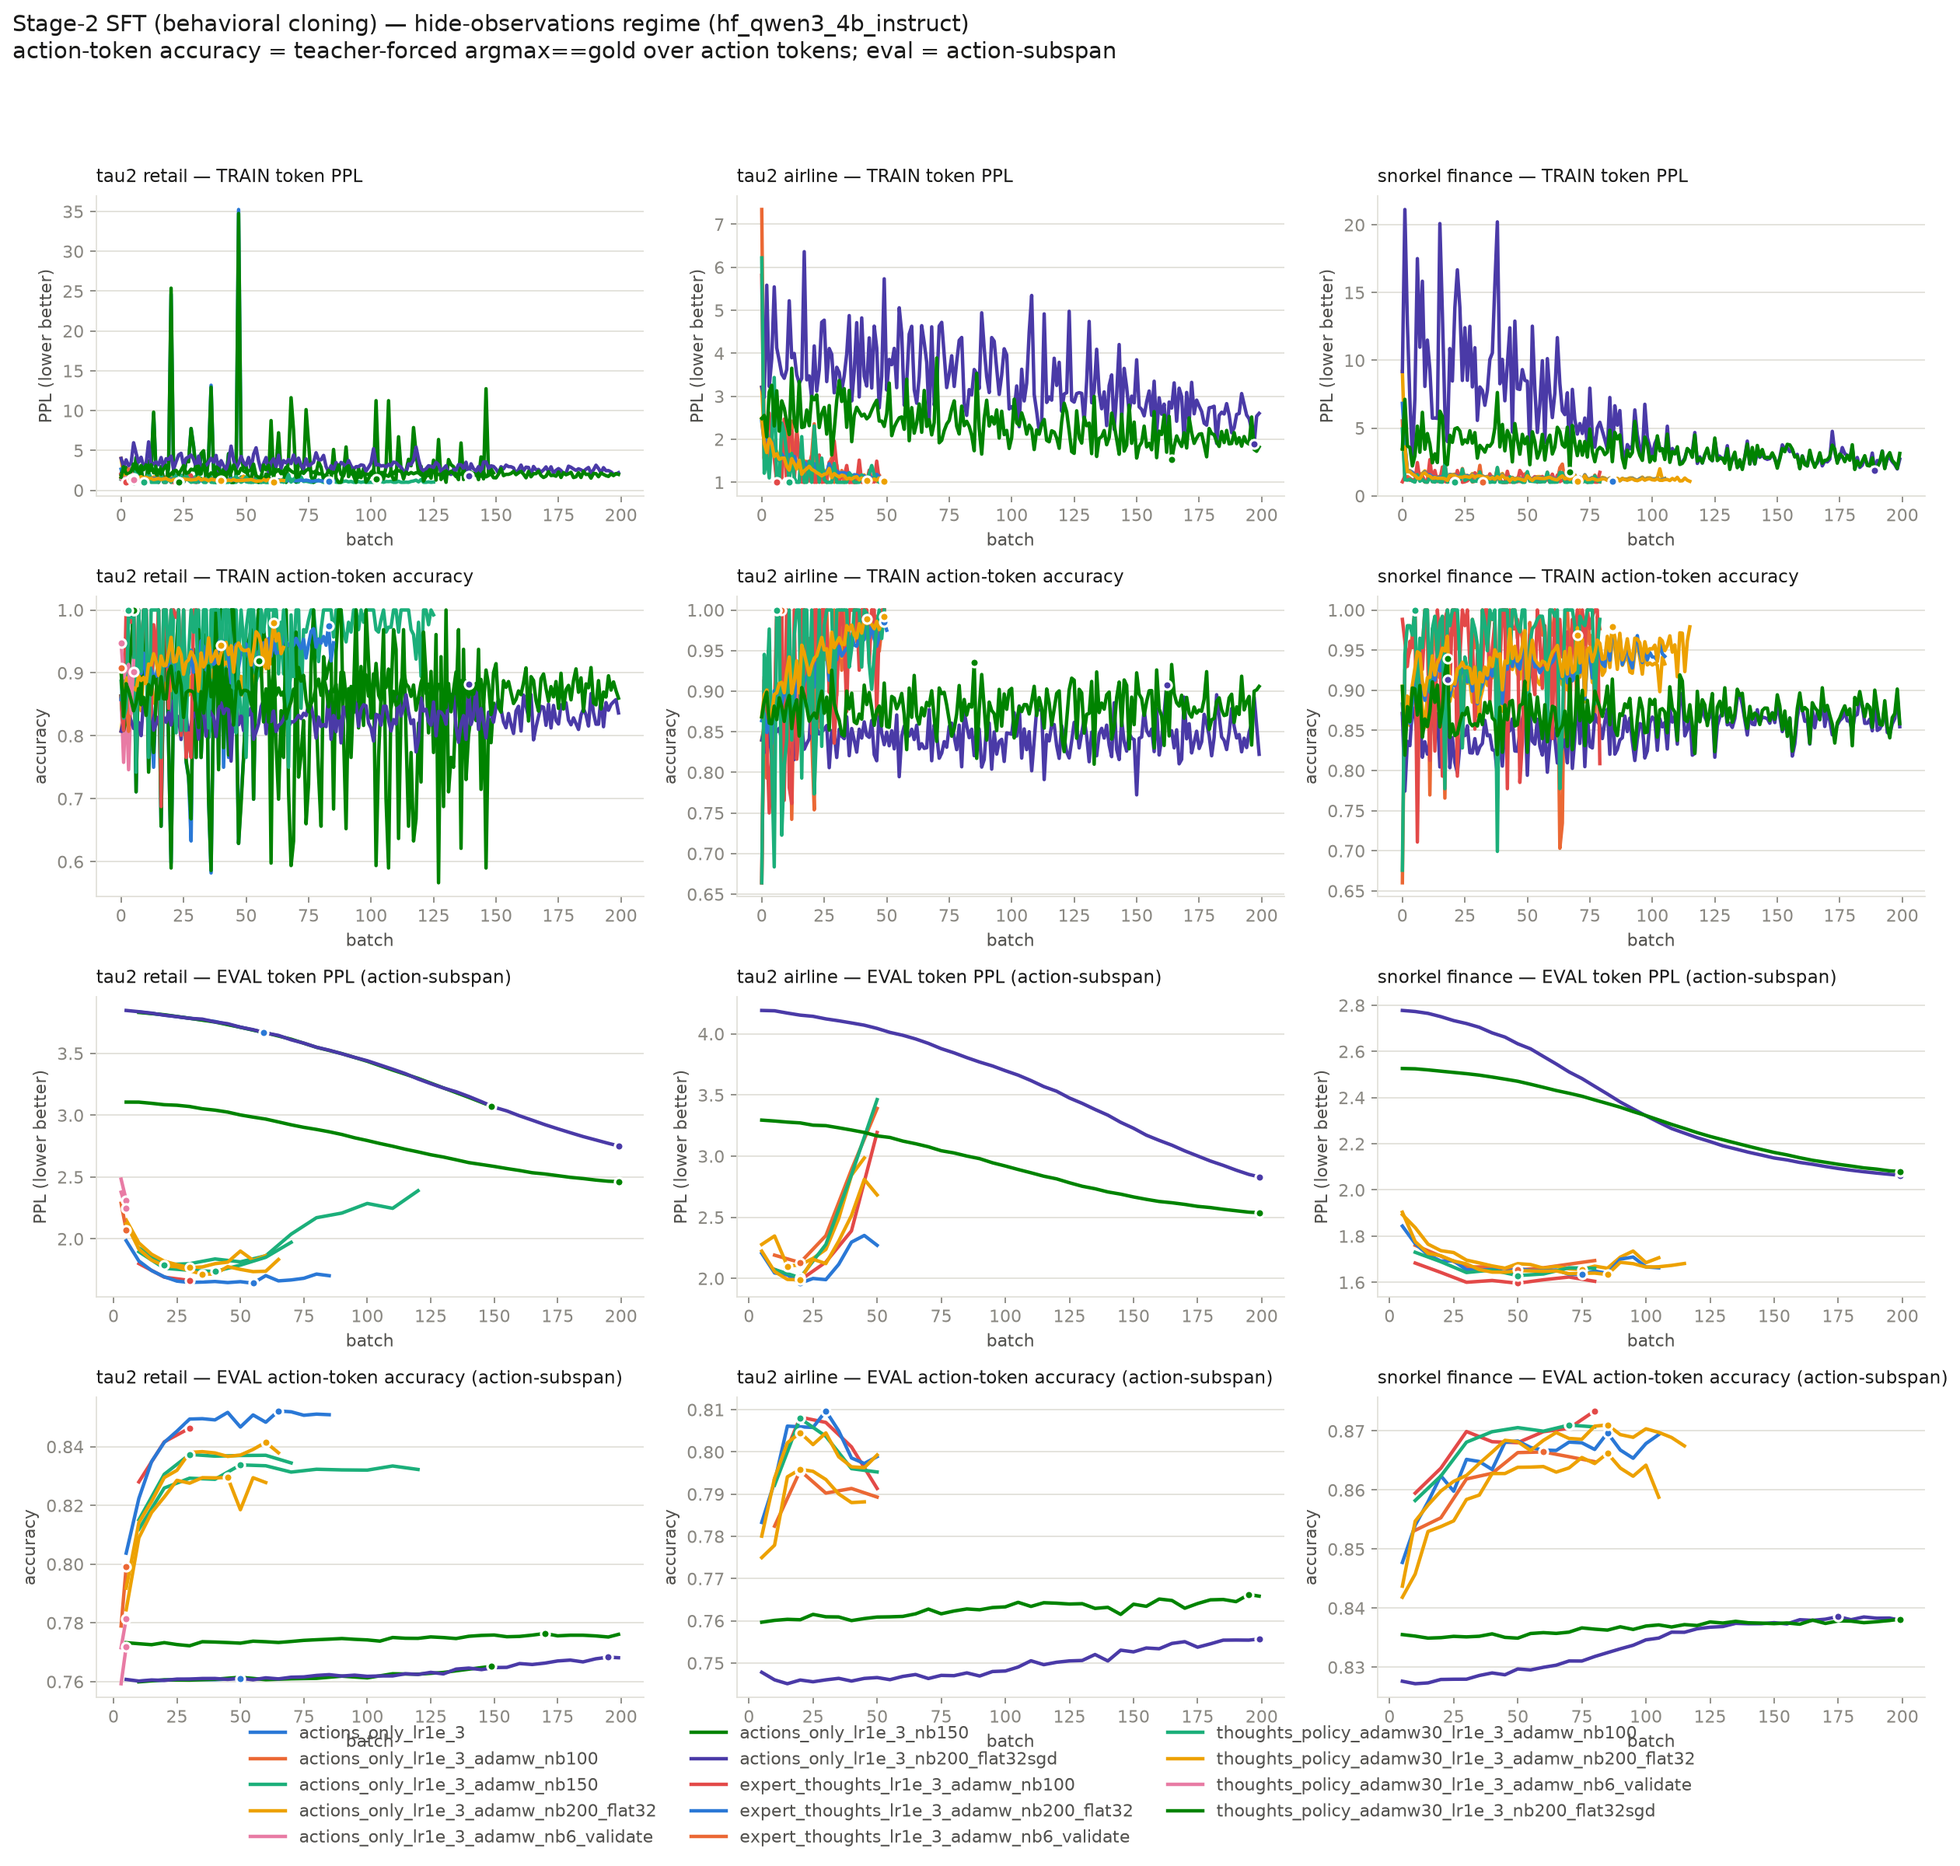
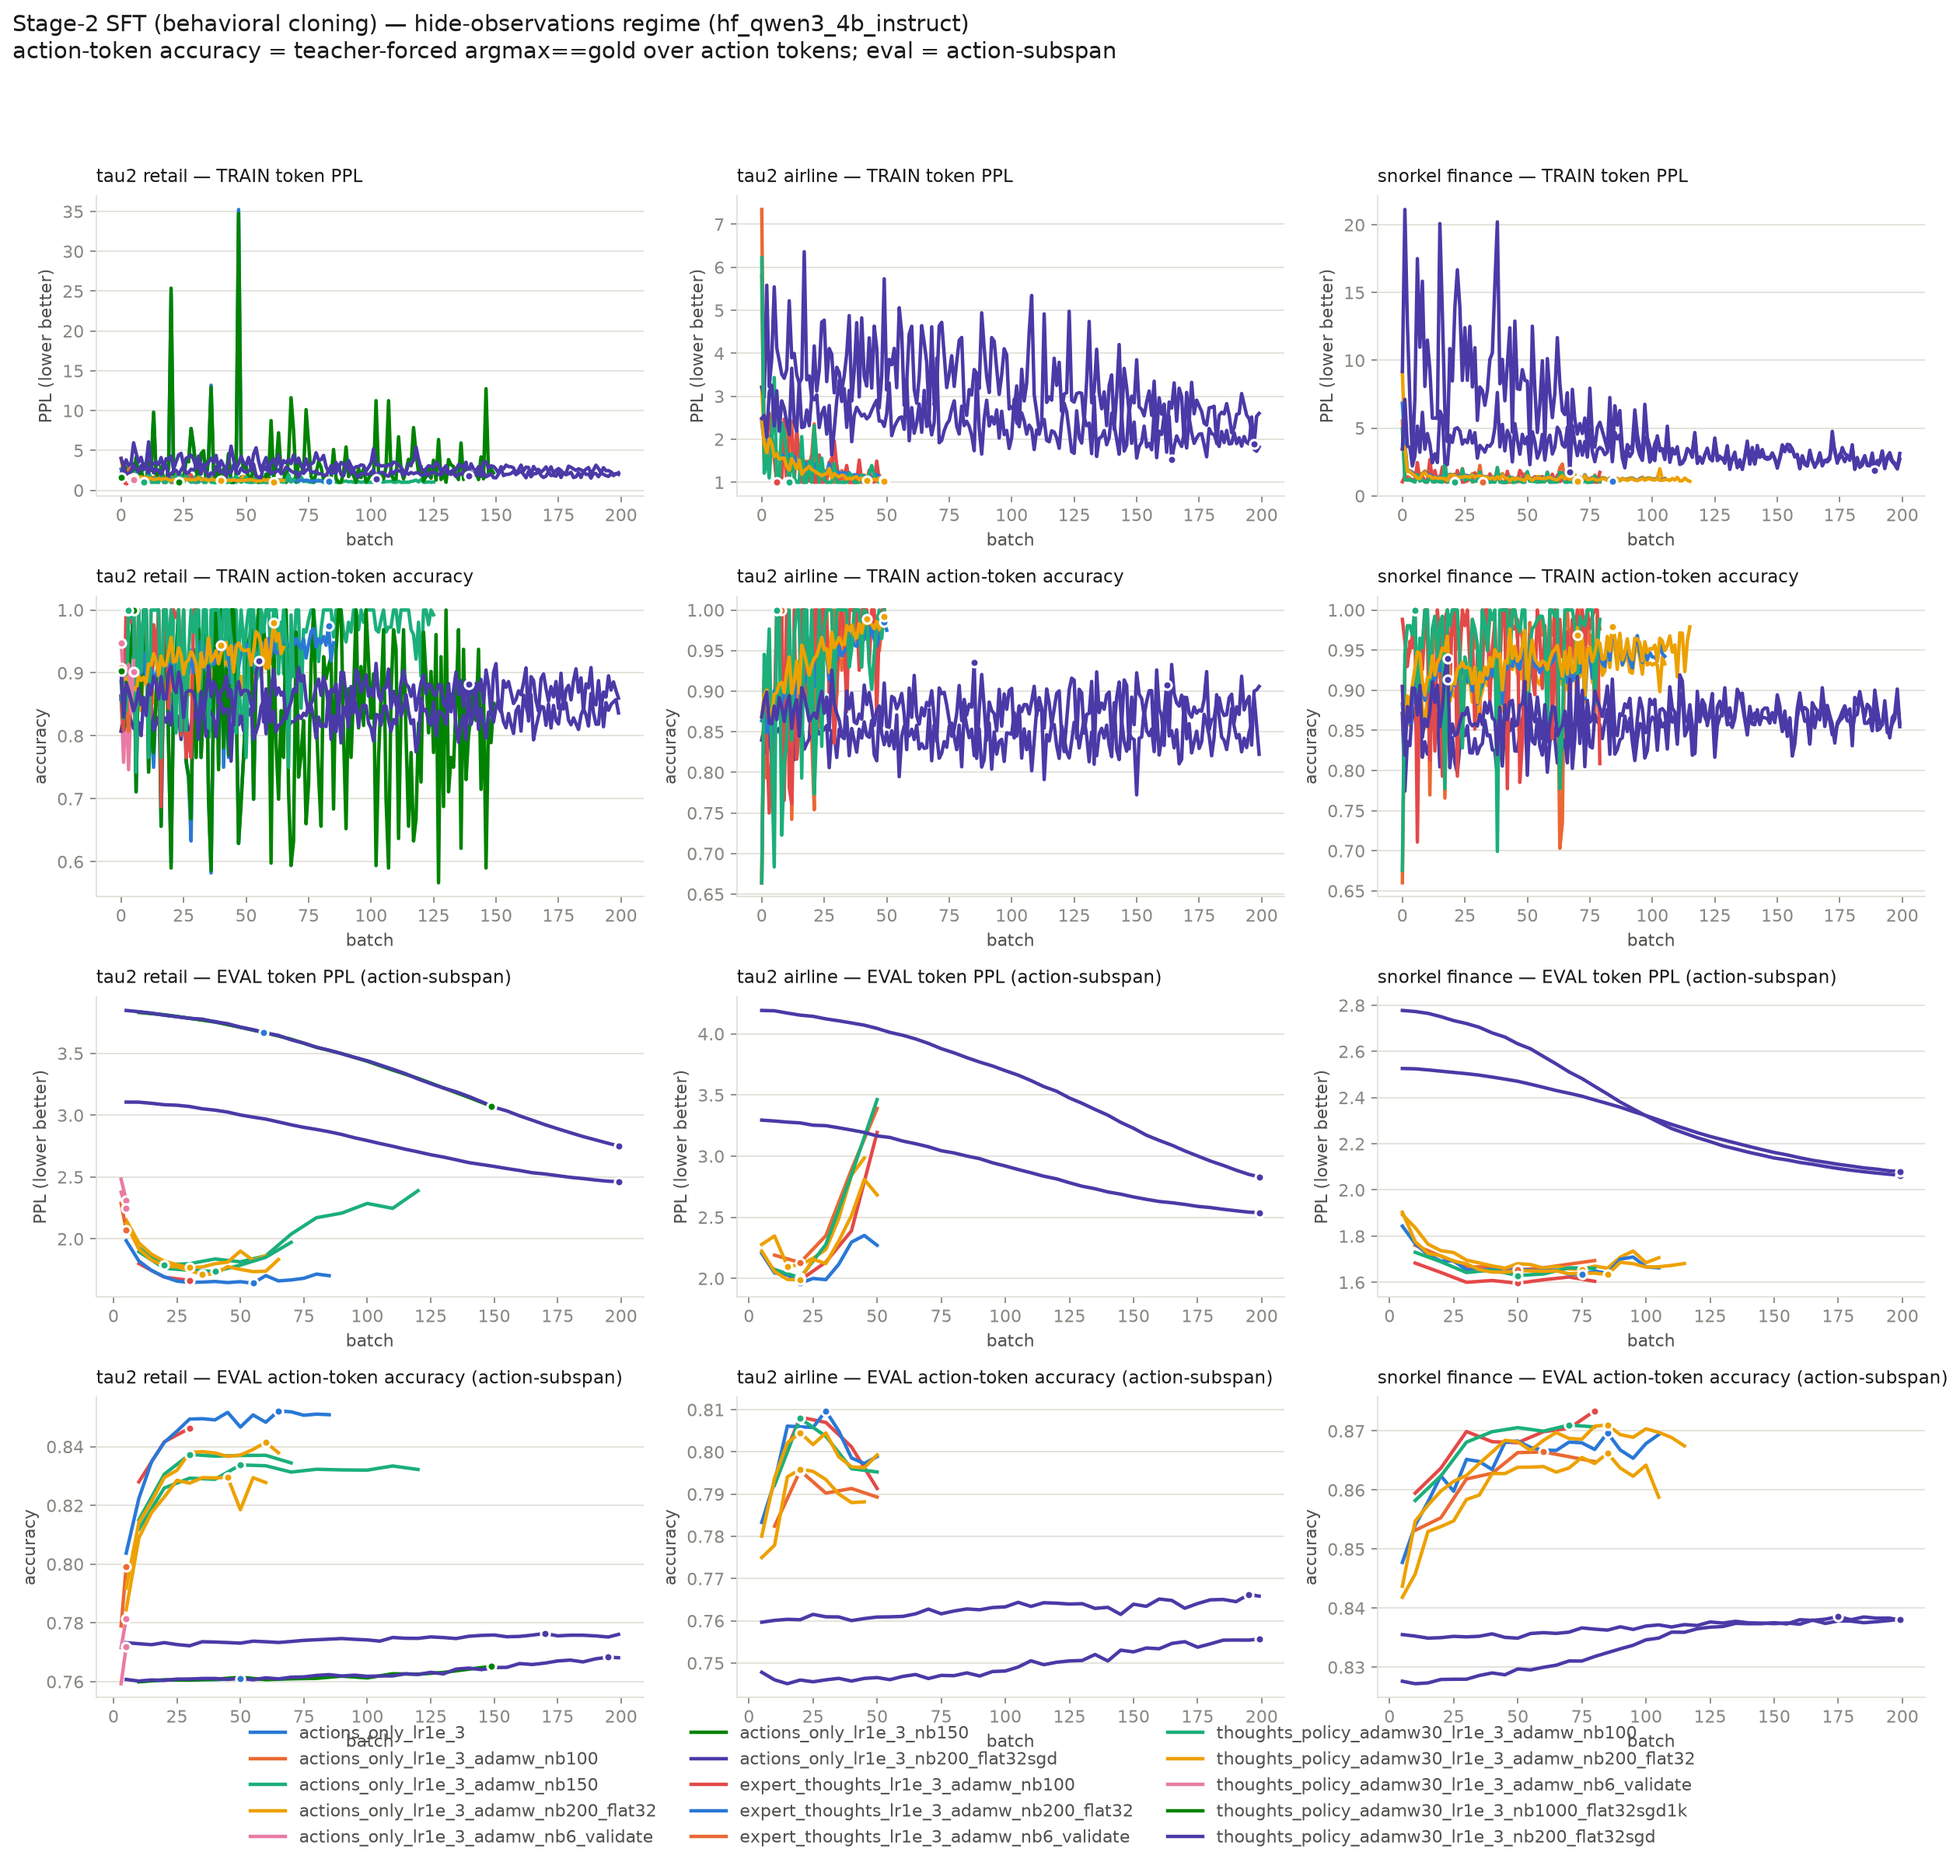
auto: SFT LR sweep results snapshot

diff --git a/notes/cc-13.0-multidomain-sgd.md b/notes/cc-13.0-multidomain-sgd.md
@@ -158,9 +158,71 @@ optimizer, LR and tasks; only the Stage-1 corpus differs.
 (spb32 x nb200), so the difference is data diversity / epochs, not optimisation budget.
 A significant result would justify a matched-size follow-up, not an immediate conclusion.
 
-## Results
+## Results — COMPLETE (2026-09-03 00:55)
 
-*(appended as runs complete)*
+### Stage-2 training, SGD 1e-3 (best eval action-PPL; all cap-limited at b199, none plateaued)
+
+| domain | `actions_only` | `thoughts_policy` | thoughts help? |
+|---|---|---|---|
+| retail | 2.7517 | **2.4625** | yes (-0.29) |
+| airline | 2.8307 | **2.5375** | yes (-0.29) |
+| finance | **2.0637** | 2.0800 | tied |
+| insurance | **2.8049** | 2.9952 | no (+0.19) |
+
+Scored spans verified byte-identical across arms within each domain (retail 13,459 action
+tokens, airline 6,393, finance 34,497, insurance 35,663), so the arms are directly
+comparable. The thought arm spends 24-30% of its gradient on thought tokens the metric
+never scores, and still wins on both tau2 domains.
+
+### Rollouts — the central result
+
+`step_0020` vs `step_best`, same arm, same corpus, only the snapshot differs:
+
+| domain | arm | `step_0020` | `step_best` | delta | Fisher p |
+|---|---|---|---|---|---|
+| retail | `thoughts_policy` | 31.0% (13/42) | 23.8% (10/42) | -7.1 | 0.625 |
+| retail | `actions_only` | 21.4% (9/42) | 19.0% (8/42) | -2.4 | 1.000 |
+| airline | `thoughts_policy` | 61.1% (11/18) | 44.4% (8/18) | -16.7 | 0.505 |
+| airline | `actions_only` | 55.6% (10/18) | 61.1% (11/18) | **+5.6** | 1.000 |
+| **insurance** | `thoughts_policy` | 52.5% (21/40) | **15.0%** (6/40) | **-37.5** | **0.00076** |
+| **insurance** | `actions_only` | 50.0% (20/40) | **10.0%** (4/40) | **-40.0** | **0.00017** |
+| finance | `thoughts_policy` | 0.0% (0/10) | 0.0% (0/10) | 0.0 | 1.000 |
+| finance | `actions_only` | 10.0% (1/10) | 0.0% (0/10) | -10.0 | 1.000 |
+
+**POOLED (retail + airline + insurance, both arms): 42.0% (84/200) -> 23.5% (47/200),
+Fisher p = 1.17e-04.**
+
+7 of 8 arm-domain pairs decline. The single exception is airline `actions_only` at +5.6,
+which is a **one-task** difference (10 vs 11 of 18) — within noise for that n.
+
+### What this establishes
+
+1. **Continuing Stage-2 SFT past a very early point destroys agentic capability while the
+   SFT objective keeps improving.** This is now significant at the pooled level and, on
+   insurance alone, at p<0.001 with n=40 per cell. Retail and airline pointed the same way
+   but individually could not clear noise; insurance settles it.
+2. **It is not about thoughts.** `actions_only` collapses on insurance just as hard as
+   `thoughts_policy` (50.0->10.0 vs 52.5->15.0). Whatever is being destroyed is destroyed
+   by fitting the action distribution, not by the thought corpus.
+3. **`step_best` (PPL-optimal) is the wrong checkpoint**, confirmed across domains. Any
+   selection criterion based on the SFT objective picks the worse policy.
+4. Combined with cc-12.0's retail curve (completion peaks at PPL 3.08, monotone decline to
+   0% at PPL 1.72) and the SGD-3e-3-vs-AdamW comparison, the variable is **fit depth**, not
+   the optimizer.
+
+### Caveats
+
+- **Finance is uninformative** (floor effect, see challenge #6) — excluded from the pooled
+  test. 9 of 10 finance fair-set rollouts ever run scored 0/10; the `hard` set is 0/29 for
+  every arm in both generations.
+- **No base reference for insurance yet**, so 52.5% is not interpretable in absolute terms
+  (retail base 14.3%, airline base 55.6%; insurance has none — the gym was only unblocked
+  today). `scripts/run_insurance_base_rollout.sh` is queued. The *within-insurance*
+  comparisons above do not depend on it.
+- Airline n=18 gives CIs of roughly +/-20 points; it can detect collapse, not 5-point moves.
+- Insurance's thought corpus has 14 mismatches and its thought arm has worse action-PPL
+  than `actions_only`, so it is the least clean domain — but the effect appears in *both*
+  its arms, which is what makes the fit-depth reading robust rather than corpus-specific.
 
 ## Challenges and resolutions
 

diff --git a/notes/cc-3.0-retail_sft_results.md b/notes/cc-3.0-retail_sft_results.md
@@ -45,6 +45,7 @@ for wordiness rather than for mispredicting the action, which inverts the rankin
 | thoughts_policy_adamw30_lr1e_3_adamw_nb100 | hide | 1.7358 | 0.8368 | 40 | 1.9884 | 0.7917 | 20 | 0.3668 |
 | thoughts_policy_adamw30_lr1e_3_adamw_nb200_flat32 | hide | 1.7150 | 0.8383 | 35 | — | — | — | 0.2997 |
 | thoughts_policy_adamw30_lr1e_3_adamw_nb6_validate | hide | 2.2449 | 0.7814 | 5 | — | — | — | 0.6407 |
+| thoughts_policy_adamw30_lr1e_3_nb1000_flat32sgd1k | hide | — | — | — | — | — | — | 1.1297 |
 | thoughts_policy_adamw30_lr1e_3_nb200_flat32sgd | hide | 2.4625 | 0.7761 | 199 | — | — | — | 0.8002 |
 | thoughts_policy_adamw30_lr1e_4_adamw_nb200_flat32 | hide | 1.7313 | 0.8393 | 140 | — | — | — | 0.2530 |
 | thoughts_policy_adamw30_lr3e_3_nb200_flat32sgd | hide | 2.2822 | 0.7809 | 199 | — | — | — | 0.6983 |
@@ -96,6 +97,7 @@ that saved step:
 | thoughts_policy_adamw30_lr1e_3_adamw_nb100 | hide | 1.7621 | 0.8306 |
 | thoughts_policy_adamw30_lr1e_3_adamw_nb200_flat32 | hide | — | — |
 | thoughts_policy_adamw30_lr1e_3_adamw_nb6_validate | hide | — | — |
+| thoughts_policy_adamw30_lr1e_3_nb1000_flat32sgd1k | hide | — | — |
 | thoughts_policy_adamw30_lr1e_3_nb200_flat32sgd | hide | — | — |
 | thoughts_policy_adamw30_lr1e_4_adamw_nb200_flat32 | hide | — | — |
 | thoughts_policy_adamw30_lr3e_3_nb200_flat32sgd | hide | — | — |

diff --git a/notes/cc-5.0-sft-lr-investigation.md b/notes/cc-5.0-sft-lr-investigation.md
@@ -376,6 +376,7 @@ retail/expert_thoughts_lr1e_3_adamw_nb6_validate     hide    5     2.2879 ->   2
 retail/thoughts_policy_adamw30_lr1e_3_adamw_nb100    hide   70     1.8959 ->   1.9718  -4.00%  0.8345        1.3828  <running>
 retail/thoughts_policy_adamw30_lr1e_3_adamw_nb200_flat32 hide   65     2.1230 ->   1.8328  13.67%  0.8379        1.2222  <running>
 retail/thoughts_policy_adamw30_lr1e_3_adamw_nb6_validate hide    5     2.3775 ->   2.2449   5.57%  0.7814        1.3506
+retail/thoughts_policy_adamw30_lr1e_3_nb1000_flat32sgd1k hide    6         (no evals yet)
 retail/thoughts_policy_adamw30_lr1e_3_nb200_flat32sgd hide  199     3.1058 ->   2.4625  20.71%  0.7761        1.9910
 airline/actions_only_lr1e_3_adamw_nb100              hide   50     2.1901 ->   3.3899 -54.78%  0.7893        1.0000  <running>
 airline/actions_only_lr1e_3_adamw_nb200_flat32       hide   45     2.2776 ->   2.9850 -31.06%  0.7882        1.0679  <running>
@@ -396,7 +397,7 @@ snorkel_finance_split/thoughts_policy_adamw30_lr1e_3_nb200_flat32sgd hide  199  
 
 11/30 arms complete   (Δ% = held-out action-subspan PPL improvement, higher is better)
 ```
-_last refreshed: 2026-09-03 00:40_
+_last refreshed: 2026-09-03 01:00_
 <!--/RESULTS-->
 
 ## Infrastructure
